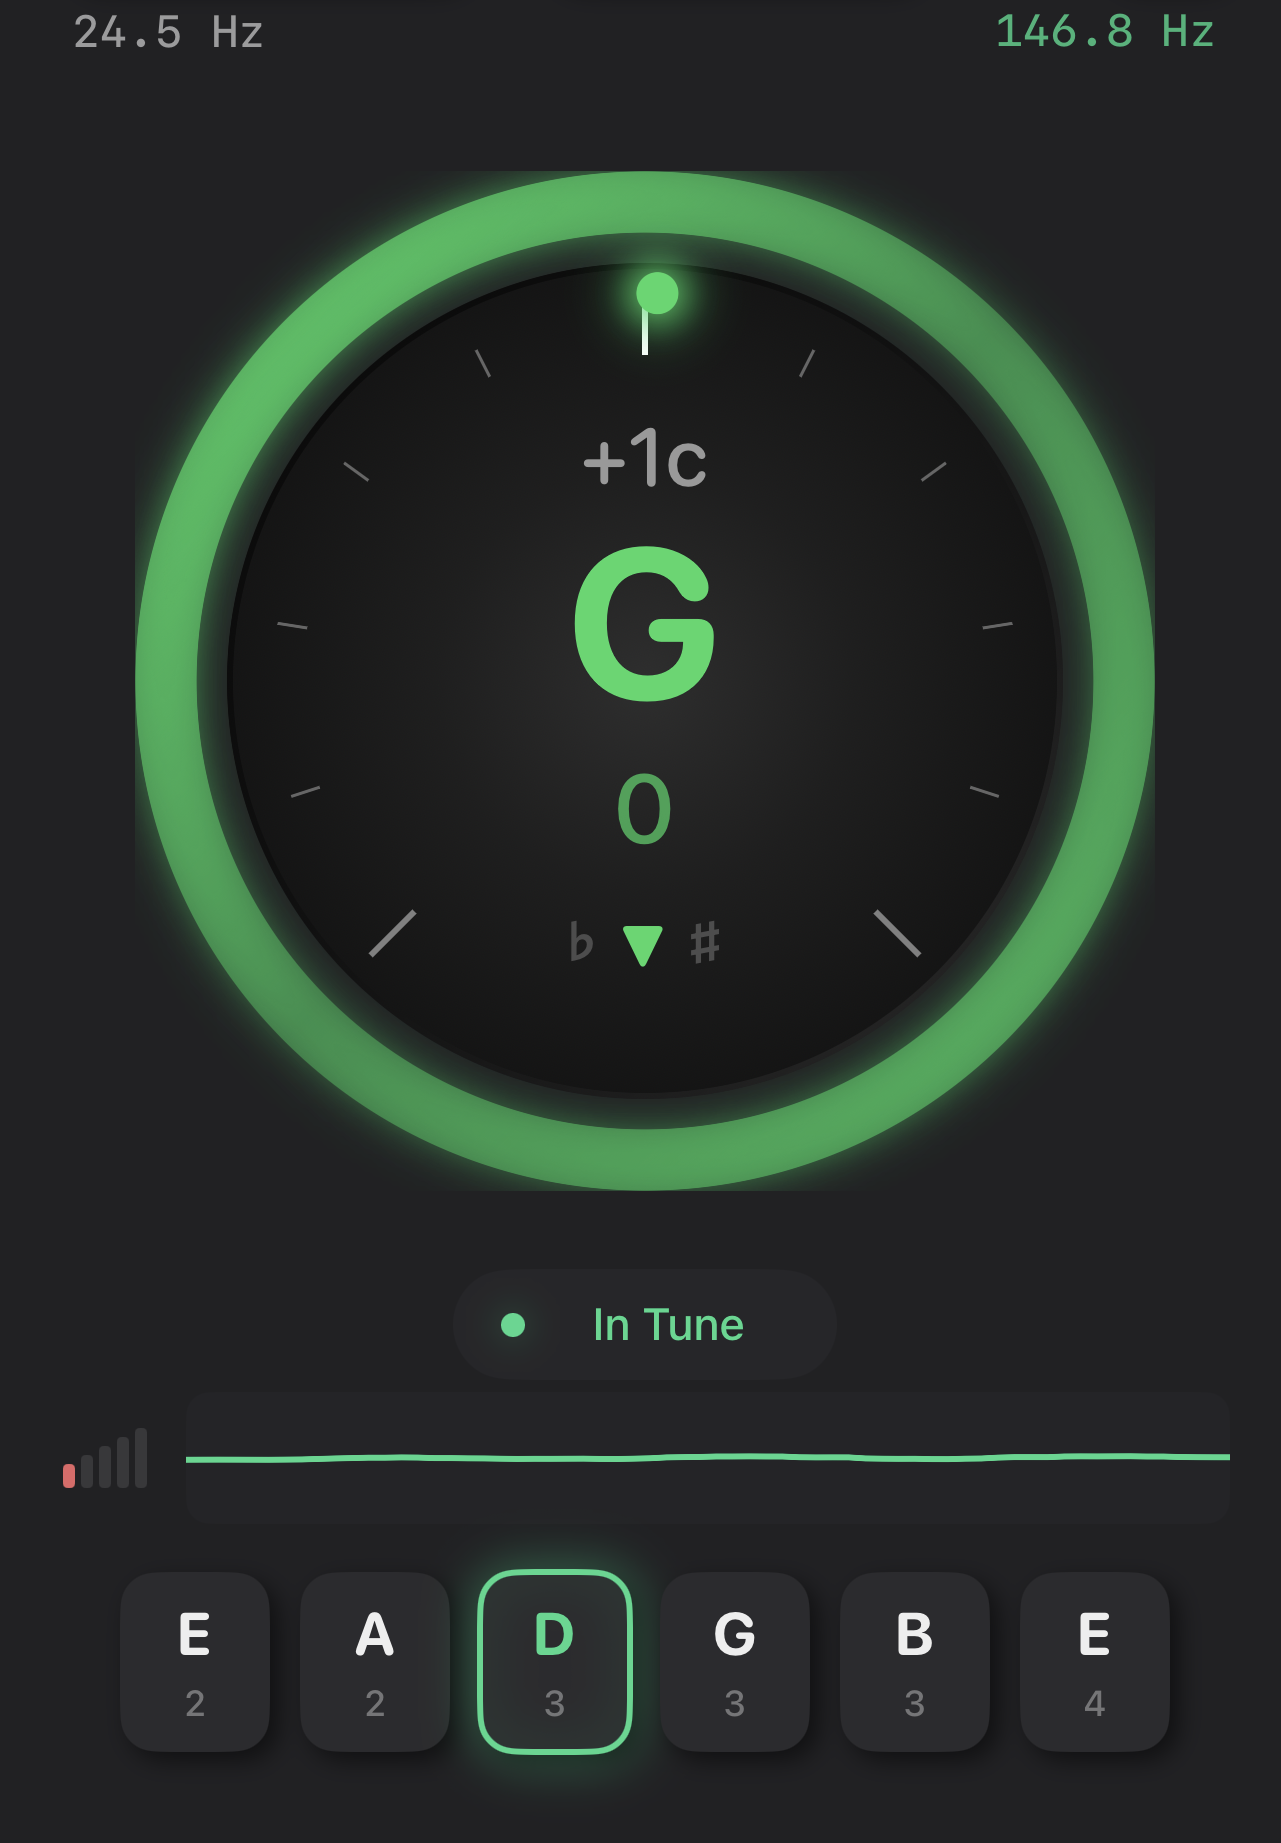
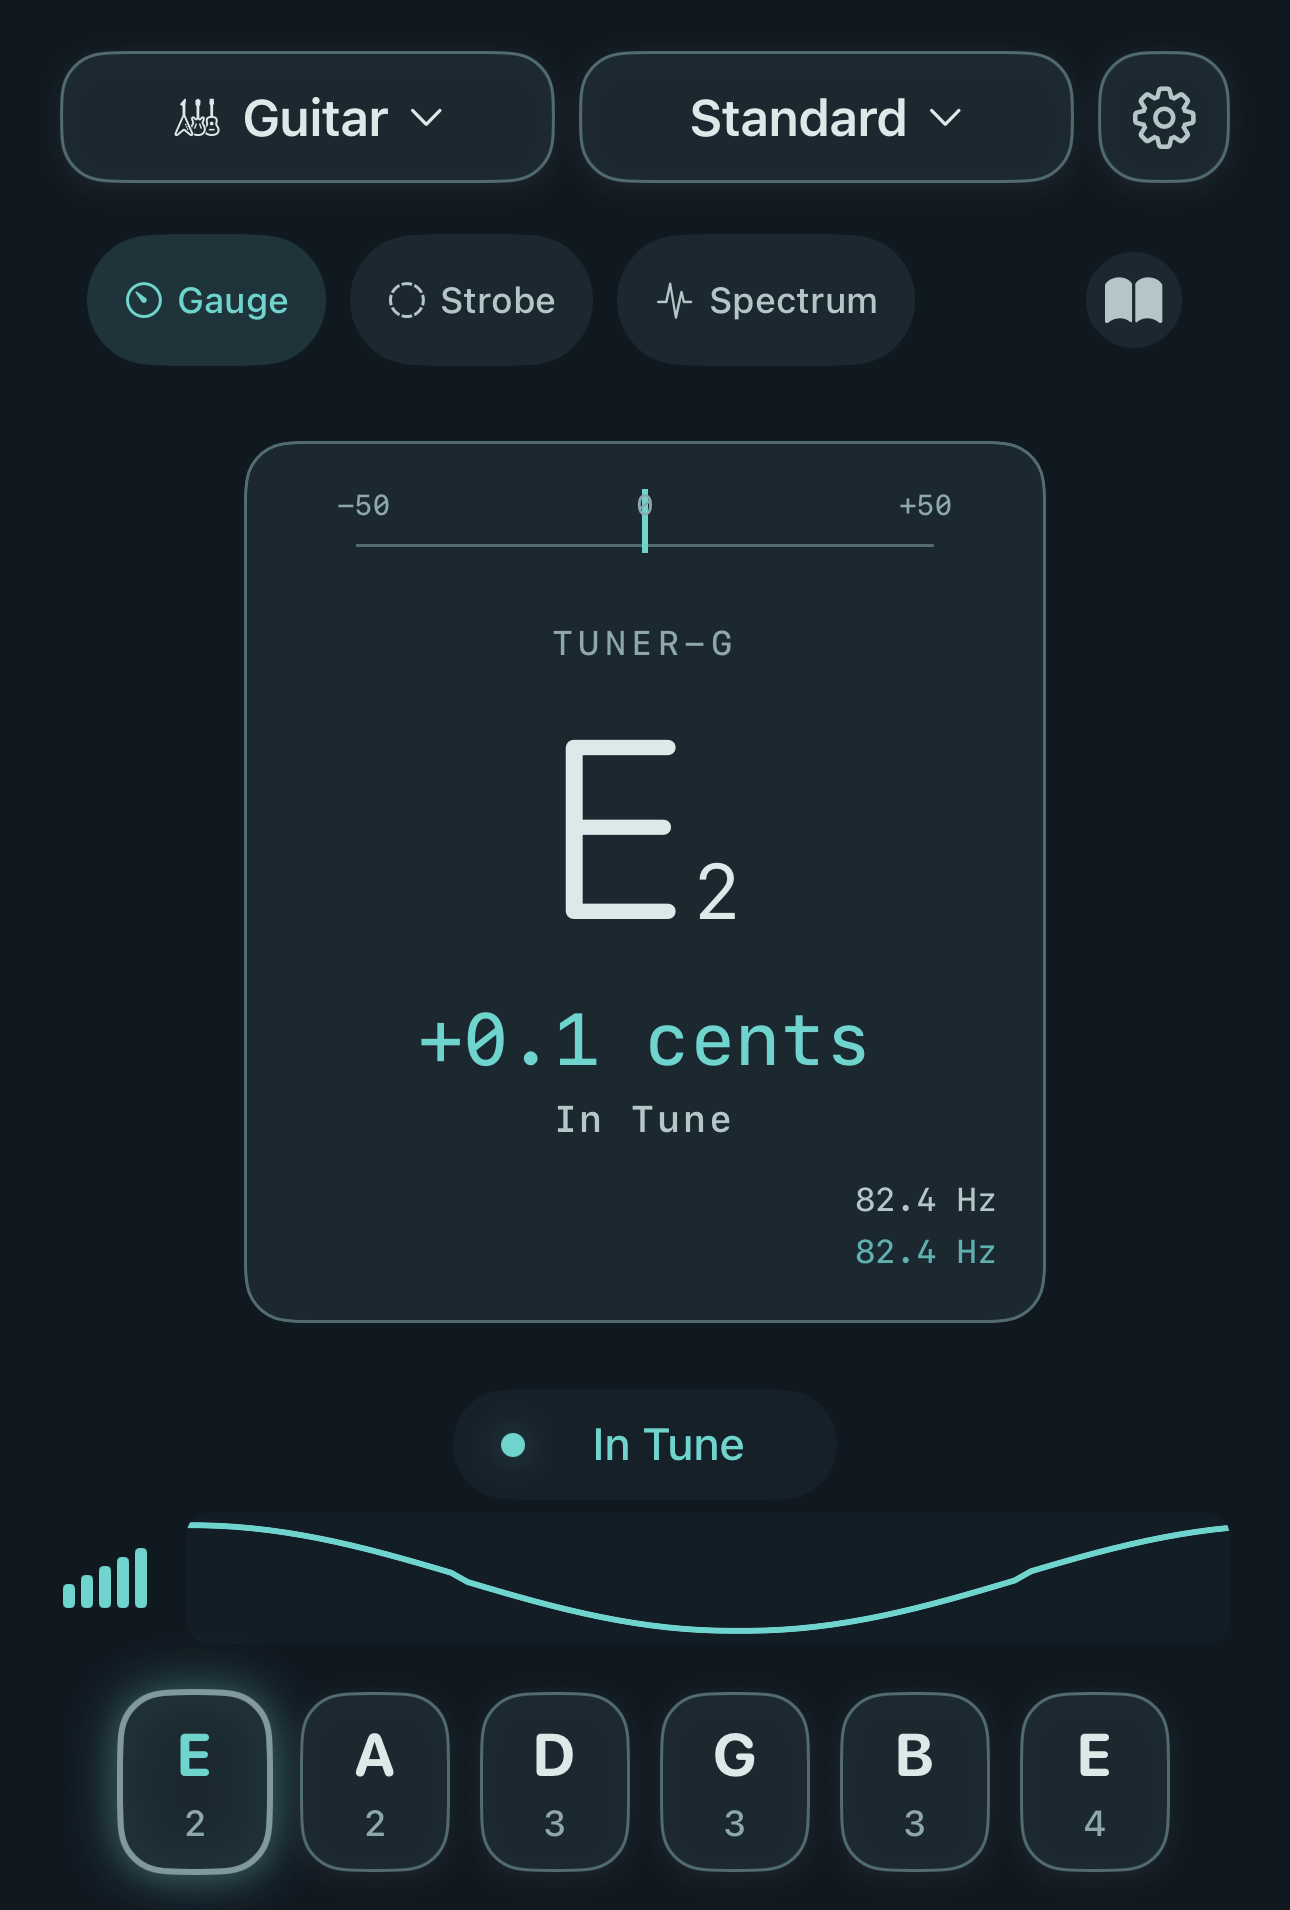
Show the 2.0 tuner in the hero screenshot
Captured on an iPhone 15 Pro Max with the App Store screenshot test (E2 in tune,
Studio Ledger skin, no ads), cropped from the top bar to the strings like the
previous image, which still showed the 1.x screen with the Hz row along the top.

diff --git a/index.html b/index.html
@@ -39,7 +39,7 @@
             <div class="hero-showcase">
                 <!-- App Screenshot -->
                 <div class="app-preview">
-                    <img src="assets/app-screenshot.png" alt="Tuner-G App Screenshot" class="app-screenshot">
+                    <img src="assets/app-screenshot.png" alt="Tuner-G 2.0 on iPhone in the Studio Ledger skin, showing E2 in tune" class="app-screenshot">
                 </div>
 
                 <!-- Animated Pitch Meter -->
